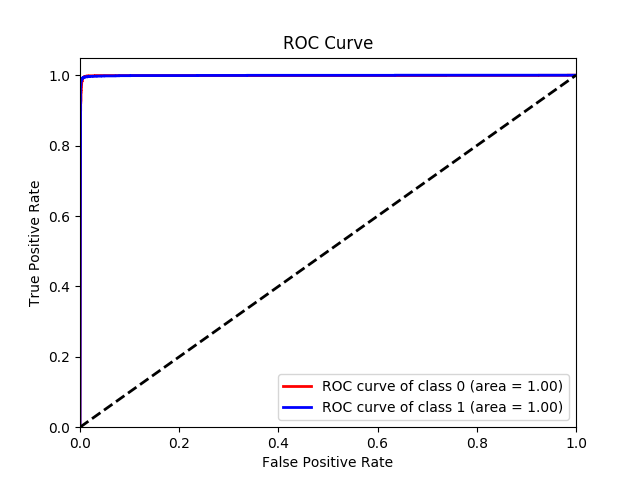
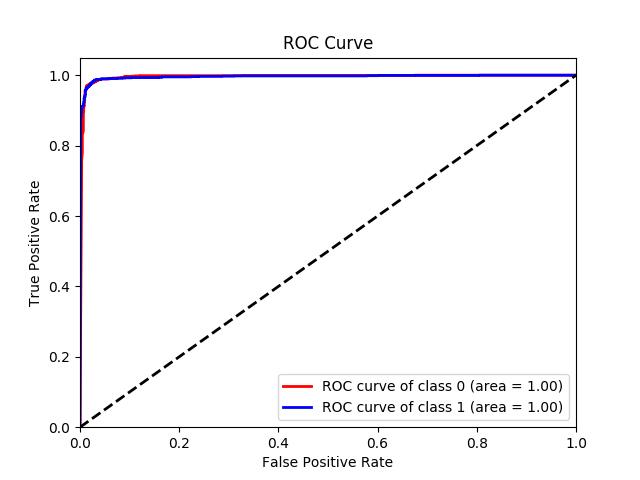
Improved train test split

Changed region(s): [[0.125, 0.1562, 0.5625, 0.2812], [0.125, 0.3125, 0.1562, 0.3438]]

diff --git a/thirdeye.py b/thirdeye.py
@@ -76,9 +76,7 @@ class Thirdeye:
             model = networks.Network(summary=True)
 
             if self.network == 'providence_v1':
-                train_x, train_y = self.prepare_rgb_input(self.MAX_FOR_CLASS, self.FRAME_CLIP)
-                # eval_x, eval_y = self.prepare_rgb_input(self.MAX_FOR_CLASS, self.FRAME_CLIP, test=True)
-                train_x, eval_x, train_y, eval_y = train_test_split(train_x, train_y, test_size=0.2, random_state=420)
+                train_x, eval_x, train_y, eval_y = self.prepare_rgb_input(self.MAX_FOR_CLASS, self.FRAME_CLIP)
 
                 if len(train_x) == 0 or len(train_y) == 0:
                     print('No training data!')
@@ -88,9 +86,7 @@ class Thirdeye:
                 self.evaluate(eval_x=eval_x, eval_y=eval_y, show=False)
 
             elif self.network == 'providence_v2':
-                train_x, train_y = self.prepare_rgb_input(self.MAX_FOR_CLASS, self.FRAME_CLIP)
-                # eval_x, eval_y = self.prepare_rgb_input(self.MAX_FOR_CLASS, self.FRAME_CLIP, test=True)
-                train_x, eval_x, train_y, eval_y = train_test_split(train_x, train_y, test_size=0.2, random_state=420)
+                train_x, eval_x, train_y, eval_y = self.prepare_rgb_input(self.MAX_FOR_CLASS, self.FRAME_CLIP)
 
                 if len(train_x) == 0 or len(train_y) == 0:
                     print('No training data!')
@@ -99,9 +95,7 @@ class Thirdeye:
                 self.evaluate(eval_x=eval_x, eval_y=eval_y, show=False)
 
             elif self.network == 'odin_v1':
-                train_x, train_y = self.prepare_rgb_input(self.MAX_FOR_CLASS, self.FRAME_CLIP)
-                # eval_x, eval_y = self.prepare_rgb_input(self.MAX_FOR_CLASS, self.FRAME_CLIP, test=True)
-                train_x, eval_x, train_y, eval_y = train_test_split(train_x, train_y, test_size=0.2, random_state=420)
+                train_x, eval_x, train_y, eval_y = self.prepare_rgb_input(self.MAX_FOR_CLASS, self.FRAME_CLIP)
 
                 if len(train_x) == 0 or len(train_y) == 0:
                     print('No training data!')
@@ -110,9 +104,7 @@ class Thirdeye:
                 self.evaluate(eval_x=eval_x, eval_y=eval_y, show=False)
 
             elif self.network == 'odin_v2':
-                train_x, train_y = self.prepare_rgb_input(self.MAX_FOR_CLASS, self.FRAME_CLIP)
-                # eval_x, eval_y = self.prepare_rgb_input(self.MAX_FOR_CLASS, self.FRAME_CLIP, test=True)
-                train_x, eval_x, train_y, eval_y = train_test_split(train_x, train_y, test_size=0.2, random_state=420)
+                train_x, eval_x, train_y, eval_y = self.prepare_rgb_input(self.MAX_FOR_CLASS, self.FRAME_CLIP)
 
                 if len(train_x) == 0 or len(train_y) == 0:
                     print('No training data!')
@@ -121,9 +113,7 @@ class Thirdeye:
                 self.evaluate(eval_x=eval_x, eval_y=eval_y, show=False)
 
             elif self.network == 'horus':
-                train_x, train_y = self.prepare_rgb_input(self.MAX_FOR_CLASS, self.FRAME_CLIP)
-                # eval_x, eval_y = self.prepare_rgb_input(self.MAX_FOR_CLASS, self.FRAME_CLIP, test=True)
-                train_x, eval_x, train_y, eval_y = train_test_split(train_x, train_y, test_size=0.2, random_state=420)
+                train_x, eval_x, train_y, eval_y = self.prepare_rgb_input(self.MAX_FOR_CLASS, self.FRAME_CLIP)
 
                 if len(train_x) == 0 or len(train_y) == 0:
                     print('No training data!')
@@ -250,55 +240,107 @@ class Thirdeye:
     def prepare_rgb_input(self, total_data=1000, frame_clip=-1, test=False, flip=False):
         if test:
             df_data = utilities.retrieve_data(constants.TEST_SEPARATED_DF_FACES)
+
+            if len(df_data) == 0:
+                print('Warning test data folder is empty, reverting to a 80/20 split for training and validation.')
+                return [], []
+
+            # Split further?
+            if frame_clip != -1:
+                df_data = utilities.split_frames(df_data, frame_clip)
+
+            df_labels = [1] * len(df_data)
+            print('Found {} test Deepfakes'.format(len(df_data)))
+
+            real_data = utilities.retrieve_data(constants.TEST_SEPARATED_REAL_FACES)
+
+            # Split further?
+            if frame_clip != -1:
+                real_data = utilities.split_frames(real_data, frame_clip)
+
+            real_labels = [0] * len(real_data)
+            print('Found {} test Pristine Videos'.format(len(real_data)))
+
+            train_x = df_data + real_data
+            train_y = df_labels + real_labels
+            data = {'Videos': train_x, 'Labels':train_y}
+
+            # Create DataFrame to shuffle
+            data_frame = pd.DataFrame(data)
+            data_frame = shuffle(data_frame, random_state=42)
+
+            # Remove data from memory
+            real_data = []
+            df_data =[]
+
+            return np.array(list(data_frame['Videos'].values)), np.array(to_categorical(list(data_frame['Labels'])))
+
         else:
             df_data = utilities.retrieve_data(constants.TRAIN_SEPARATED_DF_FACES)
+            df_labels = [1] * len(df_data)
 
-        if len(df_data) == 0:
-            print('Warning test data folder is empty, reverting to a 80/20 split for training and validation.')
-            return [], []
-
-        # Split further?
-        if frame_clip != -1:
-            df_data = utilities.split_frames(df_data, frame_clip)
-
-        if not test and flip:
-            # Flip and duplicate
-            flipped_df = self.flip_duplicate(df_data)
-            df_data = df_data + flipped_df
-
-        df_labels = [1] * len(df_data)
-        print('Found {} Deepfakes'.format(len(df_data)))
-
-        if test:
-            real_data = utilities.retrieve_data(constants.TEST_SEPARATED_REAL_FACES)
-        else:
             real_data = utilities.retrieve_data(constants.TRAIN_SEPARATED_REAL_FACES)
+            real_labels = [0] * len(real_data)
+
+            train_x_df, eval_x_df, temp_train_y_df, temp_eval_y_df = train_test_split(df_data, df_labels, test_size=0.1, random_state=420)
+            train_x_real, eval_x_real, temp_train_y_real, temp_eval_y_real = train_test_split(real_data, real_labels, test_size=0.1, random_state=420)
+
+            # Split further?
+            if frame_clip != -1:
+                train_x_df = utilities.split_frames(train_x_df, frame_clip)
+                train_x_real = utilities.split_frames(train_x_real, frame_clip)
+
+                eval_x_df = utilities.split_frames(eval_x_df, frame_clip)
+                eval_x_real = utilities.split_frames(eval_x_real, frame_clip)
+
+            if flip:
+                # Flip and duplicate
+                train_x_df_flipped = utilities.split_frames(train_x_df, frame_clip)
+                train_x_df = train_x_df + train_x_df_flipped
+
+                train_x_real_flipped = utilities.split_frames(train_x_real, frame_clip)
+                train_x_real = train_x_real + train_x_real_flipped
+
+                eval_x_df_flipped = utilities.split_frames(eval_x_df, frame_clip)
+                eval_x_df = eval_x_df + eval_x_df_flipped
+
+                eval_x_real_flipped = utilities.split_frames(eval_x_real, frame_clip)
+                eval_x_real = eval_x_real + eval_x_real_flipped
+
+            print('Found {} training Deepfake Videos'.format(len(train_x_df)))
+            print('Found {} training Pristine Videos'.format(len(train_x_real)))
+            print('Found {} validation Deepfake Videos'.format(len(eval_x_df)))
+            print('Found {} validation Pristine Videos'.format(len(eval_x_real)))
 
 
-        # Split further?
-        if frame_clip != -1:
-            real_data = utilities.split_frames(real_data, frame_clip)
-        if not test and flip:
-            # Flip and duplicate
-            flipped_real = self.flip_duplicate(real_data)
-            real_data = real_data + flipped_real
+            train_x = train_x_df[:total_data] + train_x_real[:total_data]
 
-        real_labels = [0] * len(real_data)
-        print('Found {} Pristine Videos'.format(len(real_data)))
+            train_y_df = [1] * len(train_x_df)
+            train_y_real = [0] * len(train_x_real)
 
-        train_x = df_data[:total_data] + real_data[:total_data]
-        train_y = df_labels[:total_data] + real_labels[:total_data]
-        data = {'Videos': train_x, 'Labels':train_y}
+            train_y = train_y_df[:total_data] + train_y_real[:total_data]
 
-        # Create DataFrame to shuffle
-        data_frame = pd.DataFrame(data)
-        data_frame = shuffle(data_frame, random_state=42)
+            # Finalise Validation Data
+            eval_x = eval_x_df + eval_x_real
 
-        # Remove data from memory
-        real_data = []
-        df_data =[]
+            eval_y_df = [1] * len(eval_x_df)
+            eval_y_real = [0] * len(eval_x_real)
 
-        return np.array(list(data_frame['Videos'].values)), np.array(to_categorical(list(data_frame['Labels'])))
+            eval_y = eval_y_df + eval_y_real
+
+            train_data = {'Videos': train_x, 'Labels':train_y}
+            val_data = {'Videos': eval_x, 'Labels':eval_y}
+
+            # Create DataFrame to shuffle
+            train_data_data_frame = pd.DataFrame(train_data)
+            train_data_data_frame = shuffle(train_data_data_frame, random_state=42)
+
+            # Create DataFrame to shuffle
+            val_data_data_frame = pd.DataFrame(val_data)
+            val_data_data_frame = shuffle(val_data_data_frame, random_state=42)
+
+            return np.array(list(train_data_data_frame['Videos'].values)), np.array(list(val_data_data_frame['Videos'].values)), np.array(to_categorical(list(train_data_data_frame['Labels']))) , np.array(to_categorical(list(val_data_data_frame['Labels'])))
+
 
     """ Prepare training MV data ----------------------- NO LONGER USED -----------------------------"""
     def prepare_mv_input(self, total_data=1000, frame_clip=-1):
